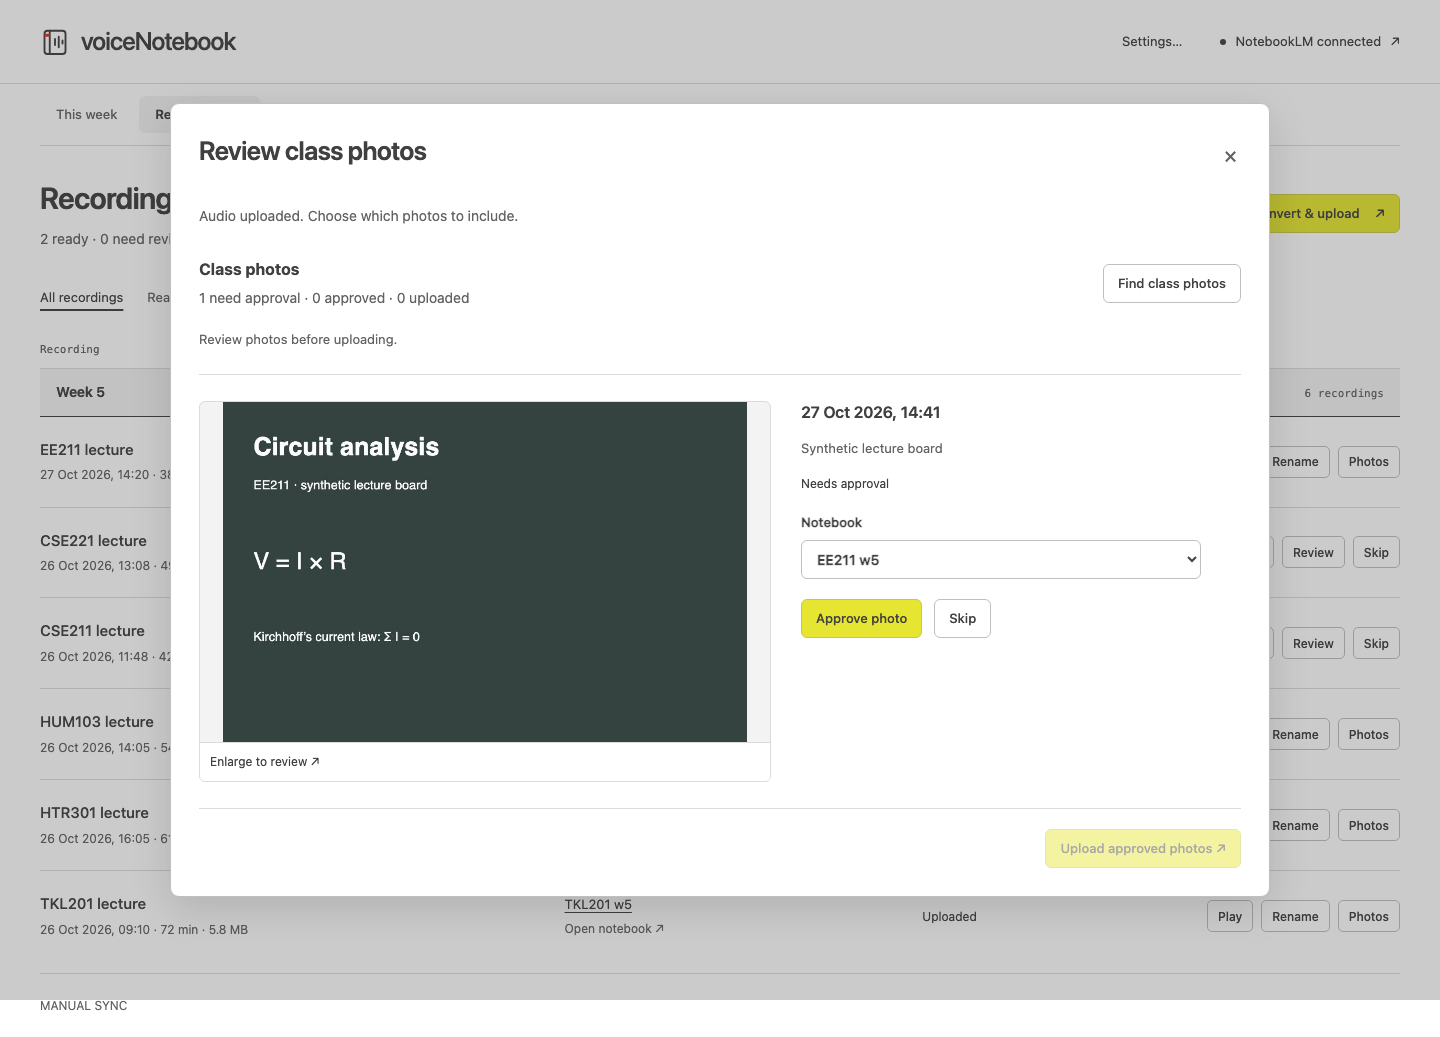
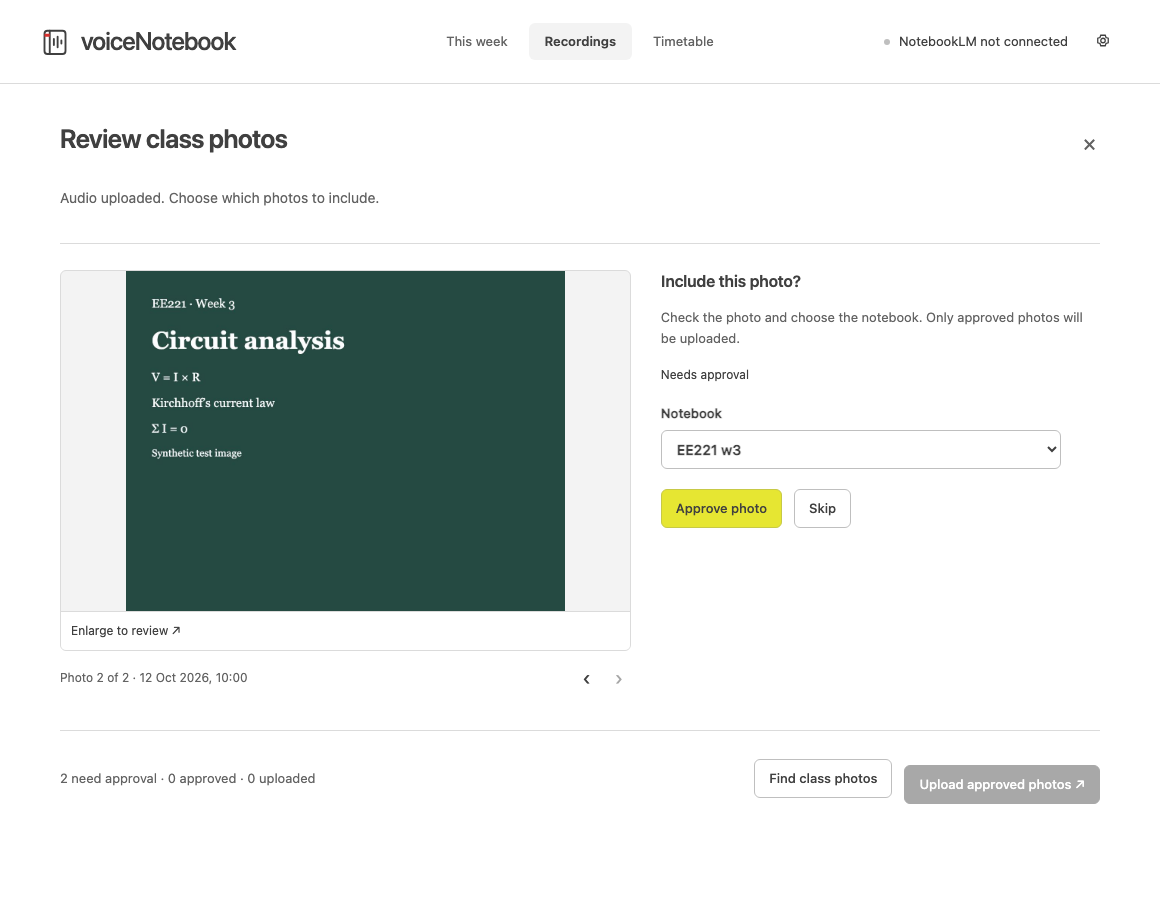
feat: align photo review with Paper layout

diff --git a/web/photos.js b/web/photos.js
@@ -1,5 +1,6 @@
 (() => {
-  let rendered = '';
+  let rendered = '', photoIndex = 0;
+  window.resetPhotoReview = () => { photoIndex = 0; rendered = ''; };
   const labels = {review:'Needs approval',approved:'Approved',skipped:'Skipped',uploaded:'Uploaded',uploading:'Uploading…',error:'Needs attention'};
   $('photo-scan').onclick = () => action('/api/photos/scan', {recording_ids:window.uploadRecordingIds}, 'Finding photos from this class…');
   $('photo-sync').onclick = () => {window.beginPhotoUpload?.();return action('/api/photos/sync', {ids:(window.scopedUploadPhotos?.()||[]).filter(p=>p.status==='approved').map(p=>p.id)}, 'Uploading approved class photos…');};
@@ -11,16 +12,17 @@
     $('photo-sync').textContent = approved ? `Upload ${approved} approved photo${approved === 1 ? '' : 's'} ↗` : 'Upload approved photos ↗';
     $('photo-scan').disabled = busy || !state.photos_available;
     $('photo-access').textContent = state.photos_available
-      ? 'Review photos before uploading.'
+      ? (photos.length ? '' : 'Find class photos to review.')
       : 'Enable optional Photos access on the home screen, or continue with audio only.';
     $('photo-summary').textContent = photos.length ? `${photos.filter(p => p.status === 'review').length} need approval · ${approved} approved · ${photos.filter(p => p.status === 'uploaded').length} uploaded` : '';
-    const key = JSON.stringify([photos,busy,state.config.timezone]);
+    photoIndex = Math.max(0,Math.min(photoIndex,photos.length-1));
+    const key = JSON.stringify([photos,busy,state.config.timezone,photoIndex]);
     if (rendered === key) return;
     rendered = key;
     const root = $('photo-list');
     root.replaceChildren();
     if(!photos.length){root.append(el('p',state.photos_available?'No matching photos found.':'You can continue with audio only.','hint'));return;}
-    for (const photo of photos) {
+    for (const photo of [photos[photoIndex]]) {
       const item = el('article', null, 'class-photo');
       const when = new Intl.DateTimeFormat('en-GB',{timeZone:state.config.timezone,dateStyle:'medium',timeStyle:'short'}).format(new Date(photo.captured_at));
       const preview = el('button', null, 'photo-open');
@@ -32,8 +34,14 @@
         $('photo-preview-caption').textContent = `${when} · ${photo.title || 'Choose a matching notebook before approval'}`;
         $('photo-preview').showModal();
       };
+      const visual = el('div',null,'photo-visual'), navigation = el('div',null,'photo-navigation');
+      navigation.append(el('span',`Photo ${photoIndex+1} of ${photos.length} · ${when}`));
+      const arrows=el('div',null,'photo-arrows');
+      for(const [direction,delta,symbol] of [['Previous',-1,'‹'],['Next',1,'›']]){const arrow=el('button',symbol);arrow.type='button';arrow.setAttribute('aria-label',`${direction} photo`);arrow.disabled=photoIndex+delta<0||photoIndex+delta>=photos.length;arrow.onclick=()=>{photoIndex+=delta;window.renderClassPhotos(state);};arrows.append(arrow);}
+      navigation.append(arrows);visual.append(preview,navigation);
       const details = el('div', null, 'photo-details');
-      details.append(el('h2',when),el('p',photo.label,'hint'),el('span',labels[photo.status] || photo.status,'badge '+photo.status));
+      const descriptions={review:'Check the photo and choose the notebook. Only approved photos will be uploaded.',uploaded:'This photo was uploaded to its class notebook.',approved:'This photo is approved and ready to upload.',skipped:'This photo was skipped. You can review it again.',error:'Review the error before retrying this photo.'};
+      details.append(el('h2',photo.status==='review'?'Include this photo?':labels[photo.status]||photo.status),el('p',descriptions[photo.status]||'Updating this photo…','hint'),el('span',labels[photo.status] || photo.status,'badge '+photo.status));
       let destination;
       if (photo.status === 'review') {
         const label = el('label','Notebook'); destination = el('select');
@@ -54,7 +62,7 @@
         button('Skip','skip');
       } else if (photo.status === 'error') button('Retry upload','retry');
       else if (['approved','skipped'].includes(photo.status) && !photo.attempted) button(photo.status === 'approved'?'Undo approval':'Review again','review');
-      details.append(actions); item.append(preview,details);root.append(item);
+      details.append(actions); item.append(visual,details);root.append(item);
     }
   };
   if (state) window.renderClassPhotos(state);

diff --git a/web/studio.css b/web/studio.css
@@ -64,8 +64,16 @@ label,.hint,label small{font-size:13px}summary{font-size:13px}
 dialog{border:1px solid var(--silver);border-radius:12px;padding:28px;box-shadow:0 12px 40px oklch(.2 0 0 / .14)}
 dialog::backdrop{background:oklch(.3 0 0 / .25)}
 .upload-dialog{max-width:1100px}.photo-review-heading p,#upload-summary,#upload-progress{font-size:14px}
+#upload-dialog.review-mode{position:fixed;inset:84px 0 0;margin:0;width:100%;height:calc(100% - 84px);max-width:none;max-height:none;overflow:auto;border:0;border-radius:0;box-shadow:none;padding:36px max(40px,calc((100% - 1040px)/2)) 30px}
+#upload-dialog.review-mode::backdrop{background:transparent}
+#upload-dialog.review-mode #upload-progress{margin:8px 0 24px}
+#upload-dialog.review-mode .photo-list{margin:0;border-top:1px solid var(--line)}
+.photo-review-footer{display:flex;align-items:center;justify-content:space-between;gap:16px;padding:22px 0}.photo-review-footer p{margin:0;color:var(--muted);font-size:13px}
+.photo-navigation{display:flex;align-items:center;justify-content:space-between;gap:12px;padding:12px 0;color:var(--muted);font-size:12px}
+.photo-arrows{display:flex;gap:8px}.photo-arrows button{border:0;background:transparent;color:var(--charcoal);font-size:20px;padding:0 8px}
 #upload-title{font-size:26px;letter-spacing:-.025em}.photo-actions .primary{width:auto;margin-top:0}
 #photo-sync{width:auto;display:block;margin-left:auto}
+#upload-dialog.review-mode #photo-sync{background:var(--charcoal);border-color:var(--charcoal);color:var(--white)}
 #upload-photo-review .class-photo{grid-template-columns:minmax(260px,1.3fr) minmax(240px,1fr);gap:30px;padding:26px 0}
 #upload-photo-review .photo-open img{height:340px;max-height:340px}
 .photo-open{border-color:var(--line);border-radius:6px;overflow:hidden}.photo-open span{border-color:var(--line);font-size:12px}
@@ -83,5 +91,7 @@ footer{border-color:var(--line);font:12px/1.6 -apple-system,BlinkMacSystemFont,"
 @media(max-width:850px){header{height:auto;min-height:84px;grid-template-columns:1fr auto;padding-top:14px;padding-bottom:10px}header nav{grid-column:1/-1;grid-row:2;justify-self:start}.header-actions{grid-column:2;grid-row:1}.calendar-scroll{height:min(594px,calc(100vh - 320px))}}
 @media(max-width:800px){main{padding:0 24px}.column-head{display:none}.recording{padding:20px 0}.recording-list{border-top:1px solid var(--line)}}
 @media(max-width:650px){#upload-photo-review .class-photo{grid-template-columns:1fr;gap:20px}#upload-photo-review .photo-open img{height:260px}}
+@media(max-width:650px){.photo-review-footer{align-items:flex-start;flex-direction:column}.photo-review-footer .actions{flex-wrap:wrap}}
+@media(max-width:850px){#upload-dialog.review-mode{inset:124px 0 0;height:calc(100% - 124px);padding:24px}}
 @media(max-width:650px){.course-notebooks{align-items:flex-start;flex-direction:column;gap:12px}}
 @media(max-width:570px){header{padding:14px 18px 10px;gap:10px}.brand{font-size:22px;gap:8px}.brand svg{width:26px;height:26px}.header-actions{gap:10px}.connection-shortcut{font-size:0}.settings-shortcut{font-size:12px}.settings-shortcut:first-child:not(#open-settings){font-size:11px}main{padding:0 18px}nav{gap:4px}.tab{font-size:12px;padding:9px 10px}.toolbar{padding:26px 0 22px}h1,.calendar-title h1{font-size:27px}.actions{gap:8px}.home-actions{flex-wrap:wrap}.home-actions button{flex:initial}.home-progress{flex-wrap:wrap}.primary,.secondary{font-size:12px}.filters{gap:18px}.filter{font-size:12px}.home-progress{font-size:12px;gap:12px}.calendar-day-label{padding:12px 7px}.calendar-event{padding:8px}.calendar-event strong{font-size:12px}.recording small{font-size:11px}.upload-dialog{padding:20px}.access-gate{padding:44px 0}.access-gate h1{font-size:27px}footer{font-size:11px}}

diff --git a/web/index.html b/web/index.html
@@ -78,7 +78,7 @@
 <dialog id="upload-dialog" class="upload-dialog"><div class="dialog-heading"><h2 id="upload-title">Upload recordings</h2><button id="upload-close" type="button" class="icon-button" aria-label="Close upload">×</button></div>
   <div id="upload-options"><p id="upload-summary"></p><label class="check"><input id="include-photos" type="checkbox"><span>Include class photos <span data-help="After audio uploads, find photos taken during those classes. Review and approve images before sending them to the same notebook."></span></span></label><div id="upload-enable"><button id="upload-photos-grant" class="text-button">Enable optional Photos access ↗</button></div><button id="upload-start" class="primary">Upload audio</button></div>
   <p id="upload-progress" role="status" aria-live="polite" hidden></p>
-  <section id="upload-photo-review" hidden><div class="photo-review-heading"><div><h3>Class photos</h3><p id="photo-summary"></p></div><button id="photo-scan" class="secondary">Find class photos</button></div><p id="photo-access" class="hint"></p><div id="photo-list" class="photo-list"></div><button id="photo-sync" class="primary" disabled>Upload approved photos ↗</button></section>
+  <section id="upload-photo-review" hidden><p id="photo-access" class="hint"></p><div id="photo-list" class="photo-list"></div><div class="photo-review-footer"><p id="photo-summary"></p><div class="actions"><button id="photo-scan" class="secondary">Find class photos</button><button id="photo-sync" class="primary" disabled>Upload approved photos ↗</button></div></div></section>
 </dialog>
 <div id="lecture-editor" popover="auto" class="lecture-editor"><form id="lecture-form"><div class="dialog-heading"><h2 id="lecture-heading">Class</h2><button id="lecture-cancel" type="button" class="icon-button" aria-label="Cancel class edit">×</button></div><label>Course<input id="lecture-course" maxlength="40" required placeholder="EE221"></label><label>Day<select id="lecture-day" required><option value="">Choose day</option></select></label><div class="fields"><label>Starts<input id="lecture-start" type="time" required></label><label>Ends<input id="lecture-end" type="time" required></label></div><div class="lecture-actions"><button id="lecture-delete" type="button" class="text-button">Delete class</button><button class="primary" type="submit">Done</button></div></form></div>
 <dialog id="review-dialog"><form id="review-form"><div class="dialog-heading"><h2>Review recording</h2><button type="button" id="close-review" class="icon-button" aria-label="Close review">×</button></div><p id="review-name"></p><label>Recording date & time<input id="review-date" type="datetime-local" required></label><div class="fields"><label>Course code<input id="review-course" required maxlength="40" placeholder="EE221"></label><label>Week<input id="review-week" type="number" min="1" max="60" required></label></div><button class="primary" type="submit">Save assignment</button></form></dialog>

diff --git a/web/home.js b/web/home.js
@@ -38,6 +38,7 @@ $('source-path-input').oninput=()=>$('source-path-input').setCustomValidity('');
 window.voiceNotebookFolderChosen=path=>{$('source-path-input').value=path;$('source-path-input').focus();notice('Folder selected. Choose Save Folder to use it.');};
 function openUploadFlow(ids=null,review=false){
   window.uploadRecordingIds=ids||state.recordings.filter(r=>r.status==='ready'&&r.route&&window.recordingInScope(r)).map(r=>r.id);
+  window.resetPhotoReview?.();
   uploadStage=review?'review':'options';$('include-photos').checked=false;
   if(!$('upload-dialog').open)$('upload-dialog').showModal();renderUpload();
 }
@@ -56,6 +57,7 @@ function renderUpload(){
   $('upload-summary').textContent=`${window.uploadRecordingIds.length} recording${window.uploadRecordingIds.length===1?'':'s'} → weekly notebooks`;
   if(['running','photo_upload'].includes(uploadStage)&&!busy)uploadStage=state.upload_batch?.stage==='photo_review'?'review':'complete';
   $('upload-title').textContent=uploadStage==='review'?'Review class photos':'Upload recordings';
+  $('upload-dialog').classList.toggle('review-mode',['review','photo_upload'].includes(uploadStage));
   $('upload-options').hidden=uploadStage!=='options';$('upload-progress').hidden=uploadStage==='options';
   $('upload-progress').textContent=busy?state.job.message:state.job.error||state.upload_batch?.photo_error||(uploadStage==='review'?'Audio uploaded. Choose which photos to include.':'Upload finished.');
   $('upload-photo-review').hidden=!['review','photo_upload'].includes(uploadStage);

diff --git a/tests/test_photos_ui.py b/tests/test_photos_ui.py
@@ -34,7 +34,11 @@ class PhotoBrowserTests(unittest.TestCase):
             page.screenshot(path=str(app.photos.folder/f"{pid}.jpg"),type="jpeg")
             app.photos.ingest([{"id":pid,"captured_at":"2026-10-12T10:00:00+03:00","label":"Text detected · possible board or presentation"}],
                               [{"start":1791788400,"end":1791795600,"notebook_id":"existing","title":"EE221 w3"}])
-            self.assertEqual(len(app.photos.records()),1)
+            other=hashlib.sha256(b"second synthetic board").hexdigest()
+            (app.photos.folder/f"{other}.jpg").write_bytes((app.photos.folder/f"{pid}.jpg").read_bytes())
+            app.photos.ingest([{"id":other,"captured_at":"2026-10-12T10:05:00+03:00","label":"Another board"}],
+                              [{"start":1791788400,"end":1791795600,"notebook_id":"existing","title":"EE221 w3"}])
+            self.assertEqual(len(app.photos.records()),2)
             rid=hashlib.sha256(b'class recording').hexdigest()
             with app.db() as db:
                 db.execute("INSERT INTO recordings(id,path,name,recorded_at,duration,size,status,route,notebook_id) VALUES(?,?,?,?,?,?,?,?,?)",(rid,'/test/audio.m4a','EE221 recording','2026-10-12T09:00:00+03:00',7200,1000,'uploaded',json.dumps({'course':'EE221','week':3,'title':'EE221 w3'}),'existing'))
@@ -55,6 +59,9 @@ class PhotoBrowserTests(unittest.TestCase):
                 page.get_by_role('button',name='Photos',exact=True).click()
                 expect(page.get_by_role("button",name="Upload approved photos ↗")).to_be_disabled()
                 expect(page.locator(".class-photo img")).to_be_visible()
+                expect(page.locator('.photo-navigation')).to_contain_text('Photo 1 of 2')
+                page.get_by_role('button',name='Next photo').click()
+                expect(page.locator('.photo-navigation')).to_contain_text('Photo 2 of 2')
                 page.wait_for_function("() => { const image = document.querySelector('.class-photo img'); return image?.complete && image.naturalWidth > 0; }")
                 page.get_by_role("button",name="Enlarge photo",exact=False).click()
                 expect(page.locator("#photo-preview")).to_be_visible()
@@ -62,6 +69,7 @@ class PhotoBrowserTests(unittest.TestCase):
                 page.get_by_role("button",name="Skip",exact=True).click()
                 expect(page.locator(".class-photo .badge")).to_have_text("Skipped")
                 page.reload();page.locator('.tab[data-view="recordings"]').click();page.get_by_role('button',name='Photos',exact=True).click()
+                page.get_by_role('button',name='Next photo').click()
                 expect(page.locator(".class-photo .badge")).to_have_text("Skipped")
                 page.get_by_role("button",name="Review again").click()
                 expect(page.locator(".class-photo select")).to_have_value("existing")
